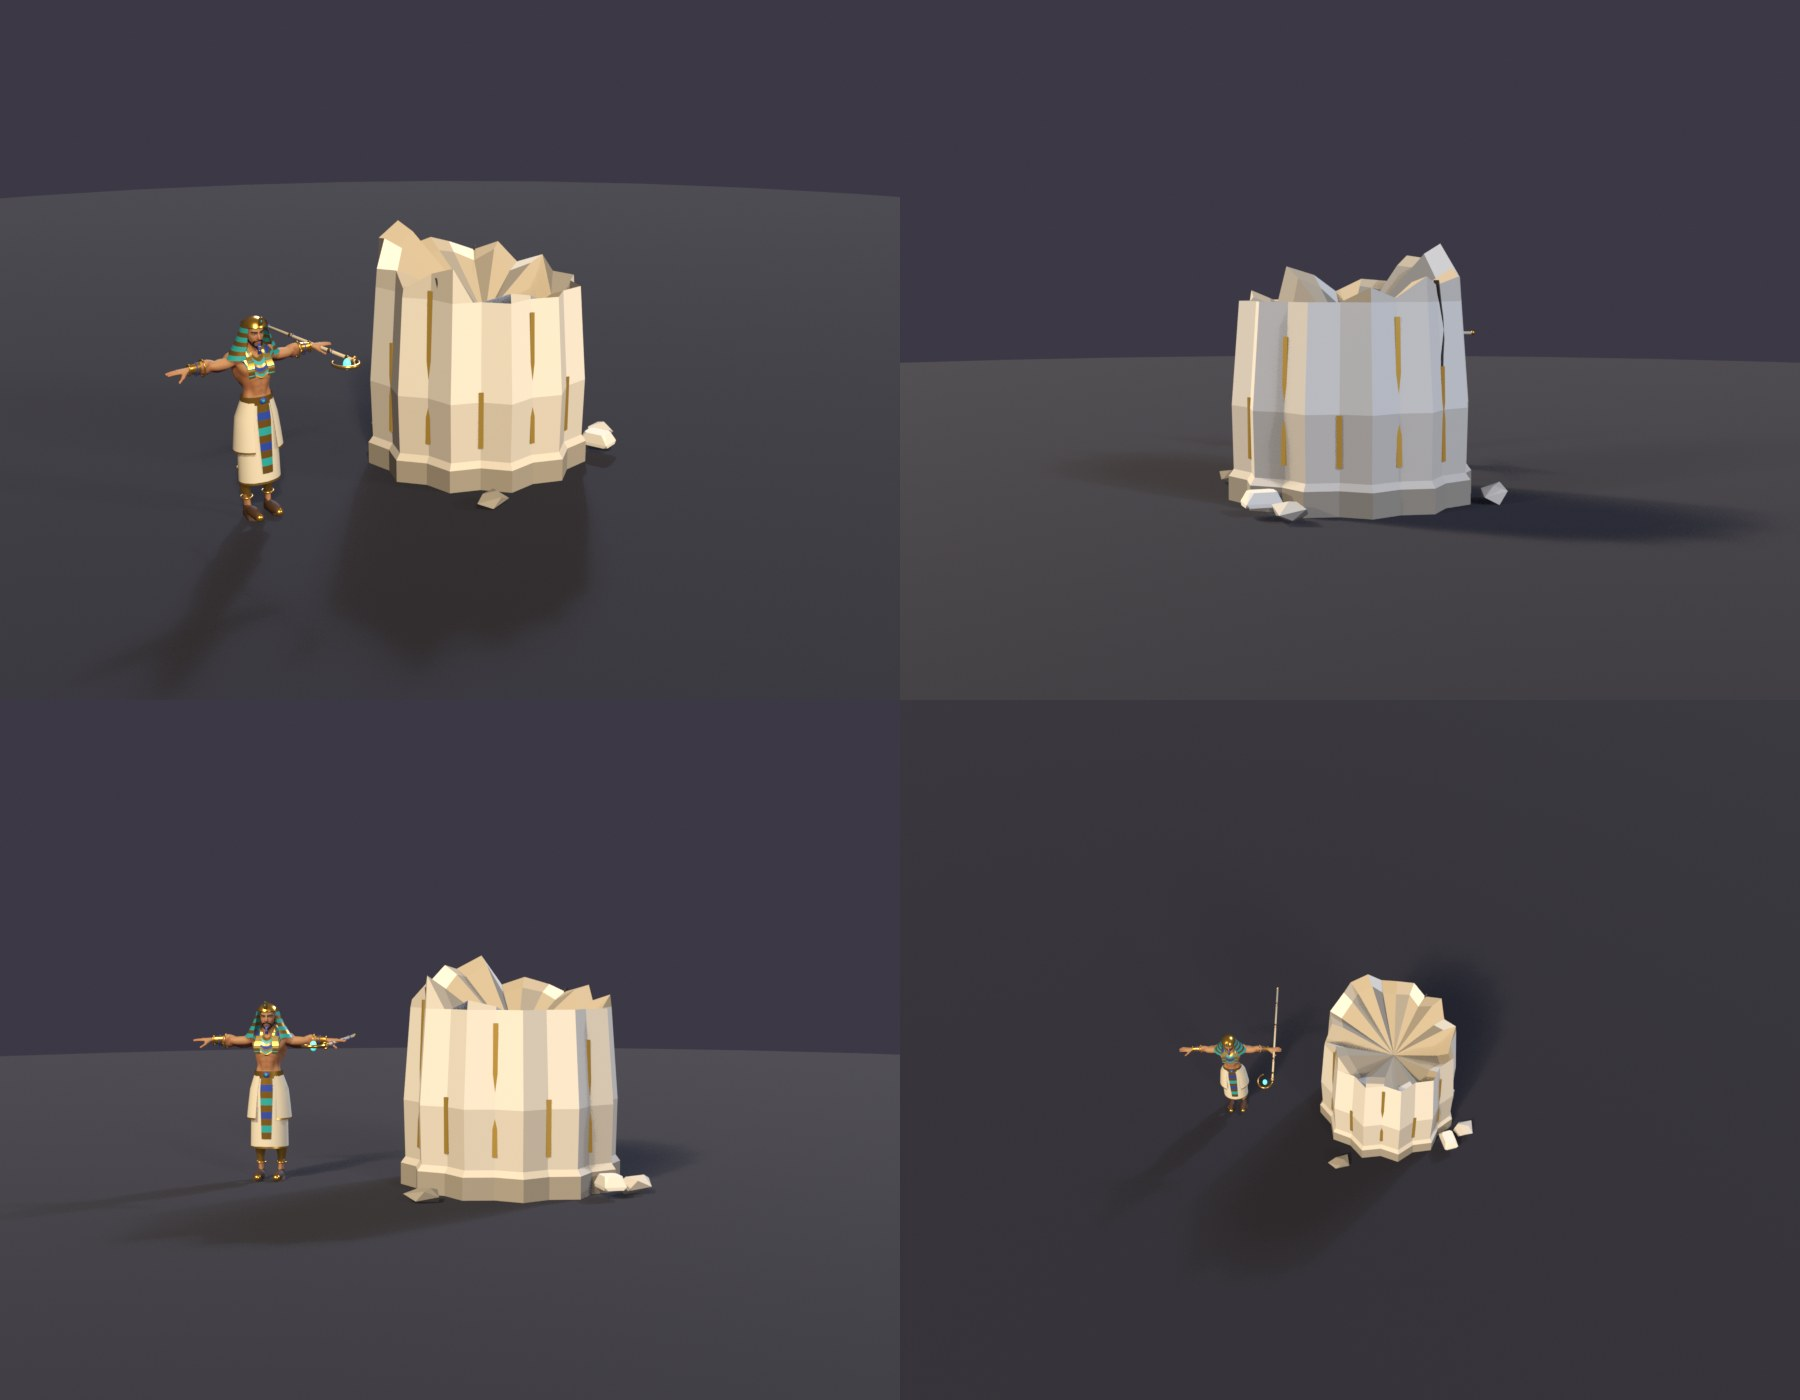
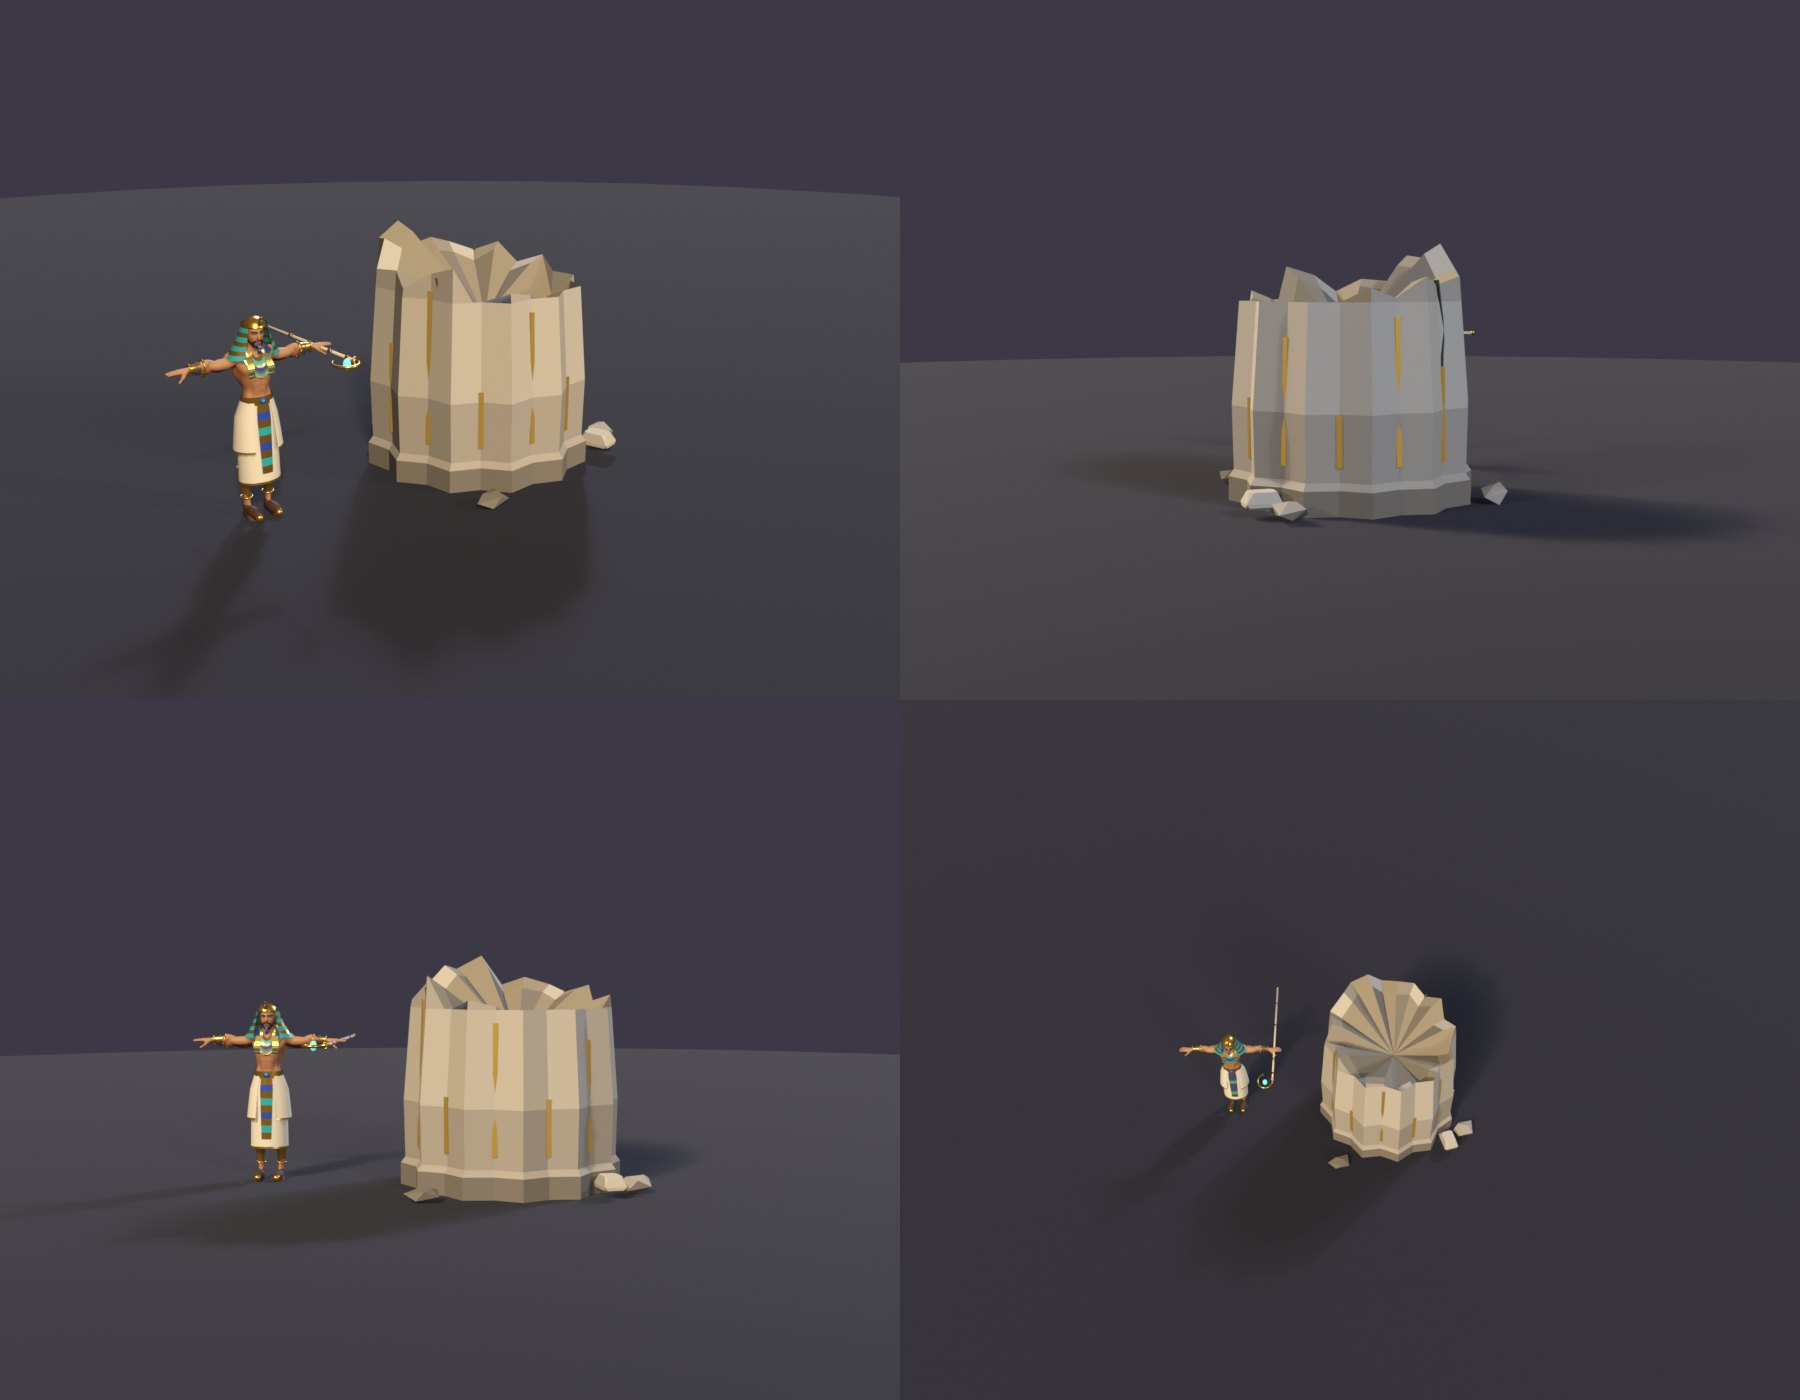
Raid models: the sun-stone's and the Hour Stone's marble darkened (it bloomed white in the Sun Court), pictures of all seven in their fights, README, news and status

diff --git a/src/game/changelog.ts b/src/game/changelog.ts
@@ -43,6 +43,13 @@ export const CHANGELOG: Release[] = [
     live: false,
     items: [
       {
+        tag: 'Raid',
+        title: 'The Raid’s stage creatures and fight objects, made real',
+        text: 'The Sun Warden’s Hour Stones, Ash and Ember’s Coal Hearts and the Eclipse Wyrm’s Cast shades are real models now, and so are the things you fight around: the broken column drums of Pillar Fall, the sun shards you carry to the altar, Ash’s cinder rocks and the Heart’s crust plates.',
+        image: 'news/raid-models.jpg',
+        alt: 'The Sun Warden’s stage: Hour Stones of pale marble with gold crowns of rays stand round the court and beam at Kaia.',
+      },
+      {
         tag: 'Tower',
         title: 'The Climb’s beasts and spirits, made real',
         text: 'The last figures of the Climb that were still a few cones and cylinders are real models now: the bark hounds and the Stag-Crowned of the Walking Wood and its feeding roots, the brine crab of the Sea, the dust wraith of the Sands, the shard mites and crystal golems of the Deep, and the wisp and the caravan cart you lead. Each runs, bites, slams or throws with its own body.',

diff --git a/pipeline/tools/raid-models-shots.py b/pipeline/tools/raid-models-shots.py
@@ -1,0 +1,207 @@
+"""
+Pictures of the Raid's fight models in their fights, from the game page, HUD and all (docs/raid/models/fight-*.jpg; the user,
+2026-11-19: "lets make more models for the raid too"): the stages' adds (the Hour Stones, the Coal Hearts, the Cast shades) and the
+fights' objects (the falling sun-stones, the sun shards, Ash's cinder rocks, the Heart's crust plates). A raid started on /game with
+Kaia and moved on to the boss of each scene, the brain held, the move cast by hand and stepped to its moment, and the browser's own
+screenshot. Made from wyrm-shots.py.
+
+    python pipeline/tools/raid-models-shots.py docs/raid/models [--port 5198] [--only hour,noon] [--browser msedge]
+
+It uses the simulator's dev server on that port (no hot reload: pipeline/sim/vite.sim.config.ts): one that is running is
+used and left alone, else it starts one and stops it. Needs `pip install playwright` and Chrome or Edge.
+"""
+import argparse
+import subprocess
+import sys
+import time
+import urllib.request
+from pathlib import Path
+
+from playwright.sync_api import sync_playwright
+
+ROOT = Path(__file__).resolve().parents[2]
+
+SETUP = """
+async ([stage, boss]) => {
+  const wait = (ms) => new Promise((r) => setTimeout(r, ms));
+  game.raid.start({ hero: 'Kaia' });
+  await wait(1500);
+  game.raid.stage = stage;
+  game.raid.omens.list.length = 0;
+  game.raid.upgrades.omens = [];
+  game.raid.fight();
+  const api = game.api, d = api.duel, a = api.arena;
+  let t0 = Date.now();
+  while (!(d.boss && d.boss.def.id === boss && !d.waiting && d.countdown < 0) && Date.now() - t0 < 90000) await wait(200);
+  await wait(2500);
+  api.view.paused = true;
+  let simMs = performance.now();
+  performance.now = () => simMs;
+  d.boss.brain.pause = 1e9;
+  d.boss.brain.timedDone = 1e9;
+  const V = a.caster.group.position.constructor;
+  let seq = 9000;
+  const st = document.createElement('style');
+  st.textContent = '*{animation:none!important}';
+  document.head.append(st);
+  const H = { x: 0, z: 7 };
+  a.placeFoe(d.foe, new V(H.x, 0, H.z));
+  window.T = {
+    H,
+    step(s) {
+      for (let i = 0; i < Math.round(s * 60); i++) { simMs += 1000 / 60; api.step(1 / 60); }
+      api.render();
+    },
+    place(x, z, zoom = 1.2) {
+      a.caster.group.position.set(x, 0, z);
+      api.heroMode.zoom = zoom;
+      api.heroMode.snapCamera = true;
+    },
+    /** The boss, turned to face yaw `dir`. */
+    face(dir) { d.foe.group.rotation.y = dir; },
+    cast(move, o = {}) {
+      const me = a.caster.group.position, x = o.x ?? me.x, z = o.z ?? me.z;
+      const c = { id: ++seq, move, step: o.step ?? 0, x, z, fx: H.x, fz: H.z, dir: o.dir ?? Math.atan2(x - H.x, z - H.z), seed: o.seed ?? 4242, target: 0 };
+      d.boss.link.cast(c);
+      return c.id;
+    },
+    live(id) { return d.boss.script.active.find((x) => x.cast.id === id); },
+    heal() { d.playerHp = d.playerMax; },
+    phase(i) { d.boss.link.on.phase(i); },
+  };
+  T.place(1.5, 15);
+  // What the brain cast before it was held plays out first.
+  T.step(5);
+  T.heal();
+  return 'ready';
+}
+"""
+
+# (viewport, steps): each scene runs in a fresh page after SETUP.
+SCENES = {
+    # The Sun Warden (stage 0): his stage's Hour Stones, Pillar Fall's sun-stones, Gathering Noon's shards.
+    "hour": ((1280, 800), 0, "sun", """() => {
+      T.phase(2);
+      T.step(3);
+      T.place(0, 15, 1.5);
+      T.cast('hour', { x: T.H.x, z: T.H.z - 2.4 });
+      T.step(5);
+      T.heal(); T.step(0.05);
+      return 'hour';
+    }"""),
+    "pillars": ((1280, 800), 0, "sun", """() => {
+      T.place(2.5, 13.5, 1.3);
+      T.cast('pillars', { x: 1, z: 12 });
+      T.step(0.7);
+      T.cast('pillars', { x: 3.5, z: 13, step: 1 });
+      T.step(0.7);
+      T.cast('pillars', { x: -1.5, z: 14, step: 2 });
+      T.step(2.6);
+      T.heal(); T.step(0.05);
+      return 'pillars';
+    }"""),
+    "noon": ((1280, 800), 0, "sun", """() => {
+      T.phase(1);
+      T.step(3);
+      T.place(4, 12, 1.4);
+      T.cast('noon', { x: T.H.x, z: T.H.z });
+      T.step(3.5);
+      T.heal(); T.step(0.05);
+      return 'noon';
+    }"""),
+    # Ash and Ember (stage 1): their stage's Coal Hearts and Ash's cinder rocks.
+    "eruption": ((1280, 800), 1, "ash", """() => {
+      T.phase(2);
+      T.step(3);
+      T.place(0, 15, 1.5);
+      T.cast('eruption', { x: T.H.x, z: T.H.z });
+      T.step(5);
+      T.heal(); T.step(0.05);
+      return 'eruption';
+    }"""),
+    "rock": ((1280, 800), 1, "ash", """() => {
+      T.place(2, 13, 1.3);
+      T.cast('rock', { x: 1, z: 12 });
+      T.step(0.9);
+      T.cast('rock', { x: 3.5, z: 13.5, step: 1 });
+      T.step(2.2);
+      T.heal(); T.step(0.05);
+      return 'rock';
+    }"""),
+    # The Heart (stage 2): the crust plates its Heartbeat throws.
+    "plates": ((1280, 800), 2, "heart", """() => {
+      T.phase(2);
+      T.step(3);
+      T.place(0, 14.5, 1.4);
+      T.cast('heartbeat', { x: T.H.x, z: T.H.z });
+      T.step(4);
+      T.heal(); T.step(0.05);
+      return 'plates';
+    }"""),
+    # The Eclipse Wyrm (stage 3): its stage's Cast shades.
+    "stand": ((1280, 800), 3, "wyrm", """() => {
+      T.phase(1);
+      T.step(3);
+      T.place(0, 15, 1.5);
+      T.cast('stand', { x: T.H.x, z: T.H.z });
+      T.step(4.5);
+      T.heal(); T.step(0.05);
+      return 'stand';
+    }"""),
+}
+
+
+def up(port):
+    try:
+        with urllib.request.urlopen(f"http://localhost:{port}/", timeout=2) as r:
+            return r.status == 200
+    except Exception:
+        return False
+
+
+def main():
+    ap = argparse.ArgumentParser()
+    ap.add_argument("out")
+    ap.add_argument("--port", type=int, default=5198)
+    ap.add_argument("--only", default="")
+    ap.add_argument("--browser", default="chrome", help="chrome or msedge")
+    args = ap.parse_args()
+    out = Path(args.out)
+    out.mkdir(parents=True, exist_ok=True)
+    names = [n for n in SCENES if not args.only or n in args.only.split(",")]
+    proc = None
+    if not up(args.port):
+        proc = subprocess.Popen(["node", str(ROOT / "node_modules" / "vite" / "bin" / "vite.js"), "--config",
+                                 str(ROOT / "pipeline" / "sim" / "vite.sim.config.ts"), "--port", str(args.port)],
+                                cwd=str(ROOT), stdout=subprocess.DEVNULL, stderr=subprocess.DEVNULL)
+        for _ in range(120):
+            if up(args.port):
+                break
+            time.sleep(0.5)
+        else:
+            proc.terminate()
+            sys.exit("the dev server did not answer within 60 s")
+    try:
+        with sync_playwright() as pw:
+            browser = pw.chromium.launch(channel=args.browser, headless=True, args=["--mute-audio", "--ignore-gpu-blocklist"])
+            for name in names:
+                size, stage, boss, steps = SCENES[name]
+                page = browser.new_page(viewport={"width": size[0], "height": size[1]})
+                logs = []
+                page.on("pageerror", lambda e: logs.append(str(e)))
+                page.goto(f"http://localhost:{args.port}/game", wait_until="load", timeout=120000)
+                page.wait_for_function("typeof game !== 'undefined' && !!game.raid", timeout=60000)
+                print(name, page.evaluate(SETUP, [stage, boss]), page.evaluate(steps))
+                page.wait_for_timeout(300)
+                page.screenshot(path=str(out / f"fight-{name}.jpg"), type="jpeg", quality=88)
+                if logs:
+                    print("  errors:", logs[:3])
+                page.close()
+            browser.close()
+    finally:
+        if proc:
+            proc.terminate()
+
+
+if __name__ == "__main__":
+    main()

diff --git a/blender/raid/sunstone.py b/blender/raid/sunstone.py
@@ -23,10 +23,10 @@ N = 24  # sides: every other vertex is a flute's floor
 
 def build_sunstone():
     B = Boss("sunstone", HEIGHT)
-    marble = B.m("marble", "#d8cdb4", 0.0, 0.85)
-    marble_dk = B.m("marble_dark", "#a39880", 0.0, 0.9)
-    marble_hi = B.m("marble_hi", "#ebe2ca", 0.0, 0.8)
-    inner = B.m("inner", "#bfae8c", 0.0, 0.9)
+    marble = B.m("marble", "#a89d86", 0.0, 0.85)
+    marble_dk = B.m("marble_dark", "#7d735f", 0.0, 0.9)
+    marble_hi = B.m("marble_hi", "#bcb197", 0.0, 0.8)
+    inner = B.m("inner", "#94876b", 0.0, 0.9)
     gold = B.m("gold", "#d2ae55", 0.85, 0.35, "#e0a93a", 0.3)
     crack = B.m("crack", "#4a4234", 0.0, 0.9)
     rng = random.Random(11)

diff --git a/blender/raid/hourstone.py b/blender/raid/hourstone.py
@@ -27,9 +27,9 @@ COS30 = math.cos(math.pi / 6)
 
 def build_hourstone():
     B = Boss("hourstone", HEIGHT)
-    marble = B.m("marble", "#d8cdb4", 0.0, 0.85)
-    marble_dk = B.m("marble_dark", "#a39880", 0.0, 0.9)
-    marble_hi = B.m("marble_hi", "#ebe2ca", 0.0, 0.8)
+    marble = B.m("marble", "#a89d86", 0.0, 0.85)
+    marble_dk = B.m("marble_dark", "#7d735f", 0.0, 0.9)
+    marble_hi = B.m("marble_hi", "#bcb197", 0.0, 0.8)
     gold = B.m("gold", "#d2ae55", 0.85, 0.35, "#e0a93a", 0.3)
     eye = B.m("eye", "#fff0c0", 0.0, 0.4, "#ffd27a", 1.4)
     socket = B.m("socket", "#4a4234", 0.0, 0.8)

diff --git a/docs/raid/models/README.md b/docs/raid/models/README.md
@@ -1,0 +1,25 @@
+# The Raid's fight models
+
+The user, 2026-11-19: "lets make more models for the raid too" (after the Climb's beasts, docs/tower/beasts/README.md). The bosses were
+already models; the creatures of their stages and the objects of their fights were still drawn in code. Now each is a model built by
+script with the bosses' toolkit (`blender/raid/<key>.py`, built and rendered beside Sefu by `blender/raid/run.py`, exported to
+`public/models/raid/<key>.glb`, its sheet `<key>_sheet.jpg` here).
+
+| Key | What | Fight | In the game |
+|---|---|---|---|
+| `hourstone` | The Hour Stone: a marble hour pillar, a gold XII, a turning crown-band of rays, one eye that beams | The Sun Warden's stage (and the Hall's) | `src/raid/adds/hourStone.ts`, a posed add |
+| `sunstone` | A broken fluted column drum of the Sun Court | Pillar Fall (stands 8 s as cover) | `FallingStone` (src/raid/fx.ts) |
+| `sunshard` | A shard of the fallen sun, a gold crystal | Gathering Noon: lying, and carried over a hero's head | sunWarden.ts |
+| `coalheart` | A molten heart in a cage of slag shards over a cone of cooled lava | Ash and Ember's stage | `src/raid/adds/coalHeart.ts`, a posed add |
+| `cinder` | A basalt boulder with lava cracks | Ash's Cinder Rock, the Twin Forge's rocks | `FallingStone(..., 'cinder')` |
+| `crustplate` | A broken slab of the Heart's bronze crust | Shade the heart (raised as cover) | heart.ts |
+| `castshade` | The Cast shade: a hunched shadow with torn violet wings and one gold eye | The Eclipse Wyrm's stage | `src/raid/adds/castShade.ts`, a posed add |
+
+- **The adds** are posed models through the Climb's beasts' look (`beastLook`, `BeastDef.url`): the code look stands in until the file
+  lands, the hit flash follows the palette, each part's plain pieces are merged into one mesh to keep the draw calls down.
+- **The objects** are still models (`src/raid/models.ts`: `preloadProps` as a fight's kit is made, `propClone`); until a file lands the
+  object is drawn as it was in code.
+- **Checked**: the adds in the game's own code beside Sefu (`pipeline/tools/beast-sheet.js` with `window._beast` and `window._codeLook`);
+  every rule check still passes (`_raidCheck` 234 rows, `_raidAsh` 77, `_raidHeart` 246, `_raidTwin` 143, `_raidWyrm` 50,
+  `_raidUpgrades` 40); each in its fight from the game page, `fight-*.jpg` (`pipeline/tools/raid-models-shots.py`). The marble of the
+  sun-stone and the Hour Stone was darkened after the first fight pictures: under the Sun Court's light it bloomed white.

diff --git a/docs/STATUS.md b/docs/STATUS.md
@@ -54,6 +54,16 @@ floor, 6-10 of the floor's weaker enemies wandering, each back 20-30 s after it 
 shared online as the packs are. **Waiting on the user:** why go there (hunt quest / a rare strong mob / both / just the fight), how
 busy (6 or 10), and where to start (one Sea floor alone first, or all floors).
 
+## The Raid's fight models (2026-11-19): seven built, in the fights, committed; NOT pushed, NOT live
+
+The user: "lets make more models for the raid too". The stages' adds and the fights' objects were the last things of the Raid drawn in
+code: the Hour Stone, the sun-stone (Pillar Fall), the sun shard, the Coal Heart, the cinder rock, the Heart's crust plate and the
+wyrm's Cast shade are models now (`docs/raid/models/README.md`; builders `blender/raid/`, built by three helpers in parallel). The adds
+go through the Climb's beasts' look (`BeastDef.url`), the objects through `src/raid/models.ts`; the code look stands in until a file
+lands. Every rule check still passes (`_raidCheck` 234, `_raidAsh` 77, `_raidHeart` 246, `_raidTwin` 143, `_raidWyrm` 50,
+`_raidUpgrades` 40); pictures in their fights `docs/raid/models/fight-*.jpg` (`pipeline/tools/raid-models-shots.py`). Not done: the
+user's look; a phone frame with a stage's three adds; the cinder rock reads a little like a face from the side.
+
 ## The Climb's beasts as models (2026-11-19): nine built, in the game, committed, approved by the user ("They look right"); NOT pushed, NOT live
 
 The user: "lets make more models even for the tower", then, shown the bark hound: "Yes, do them all". The Climb's beasts, spirits
